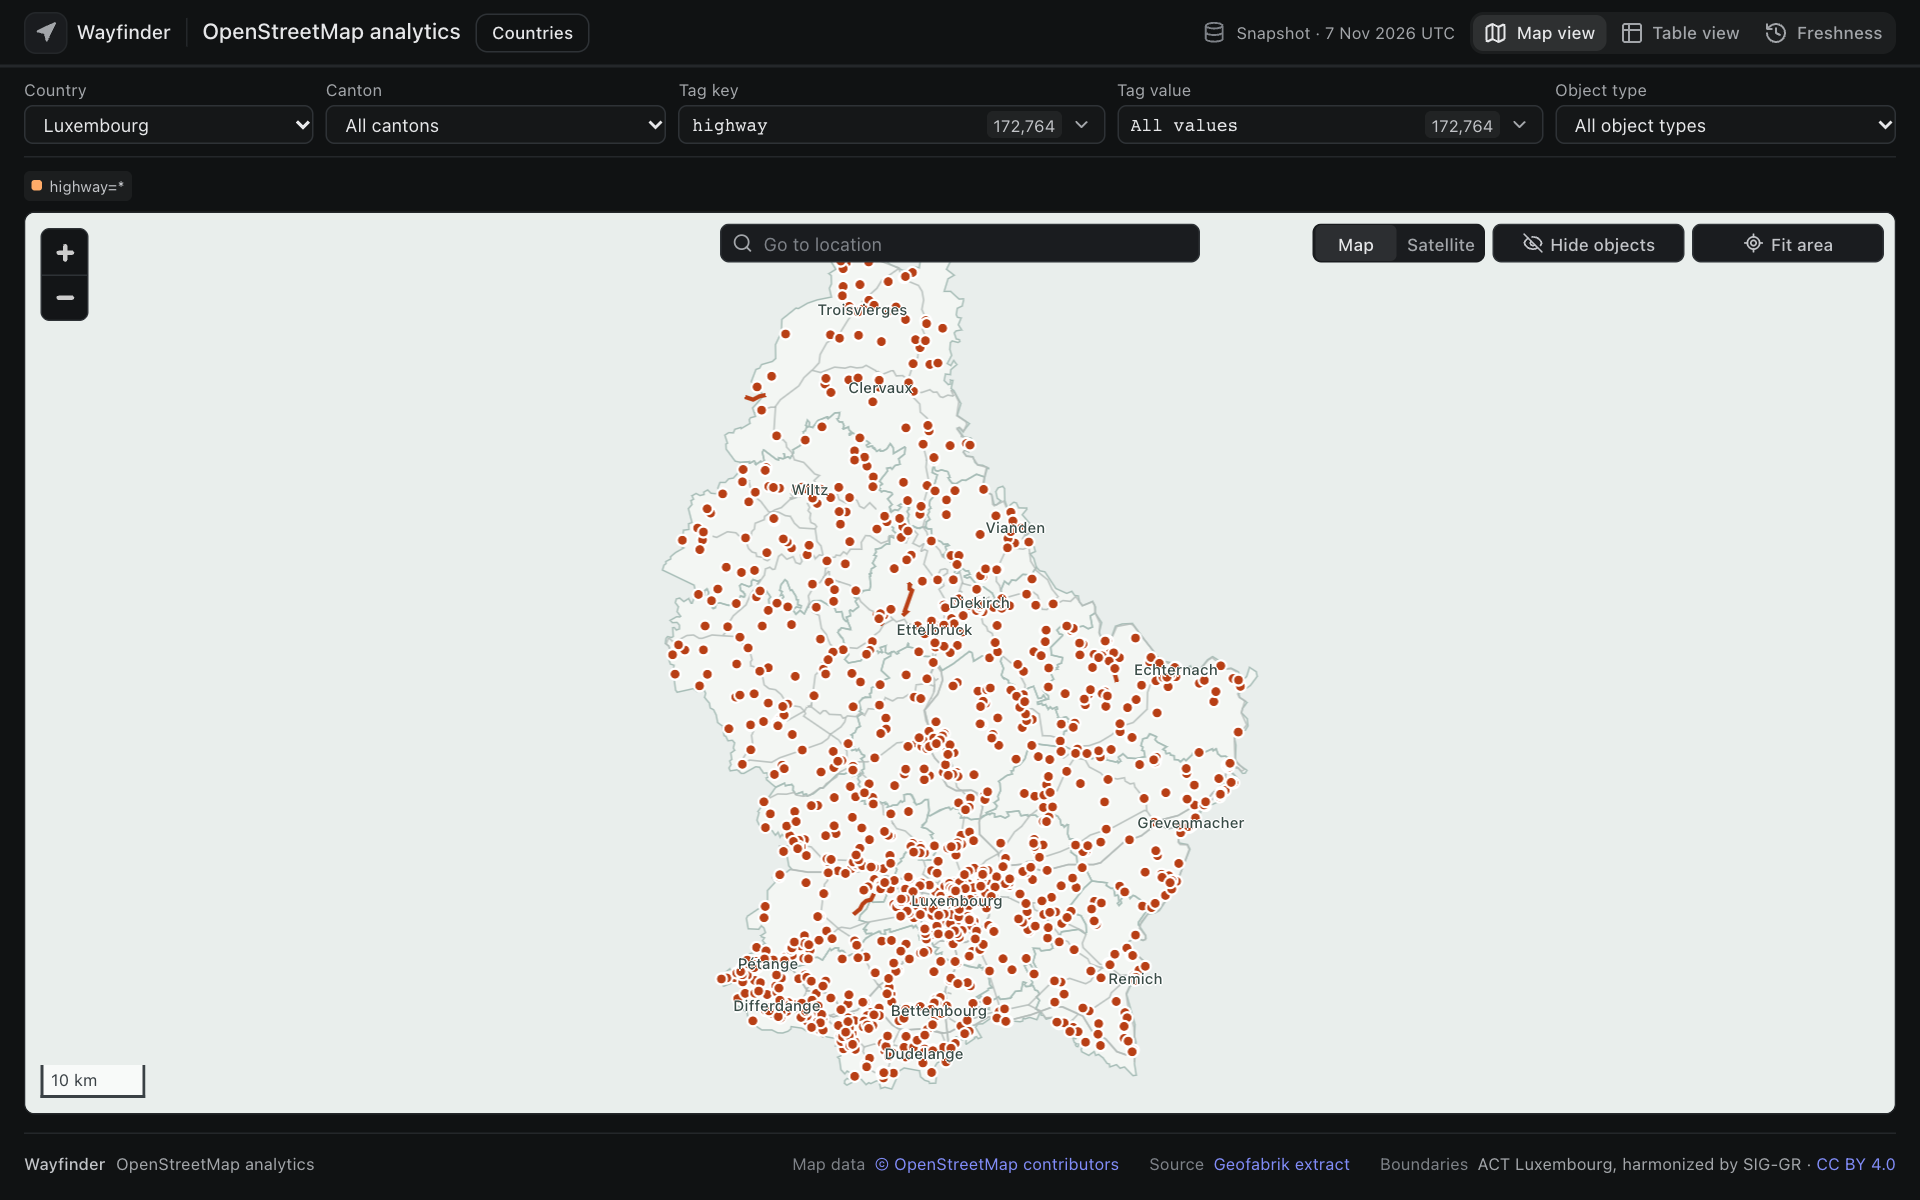
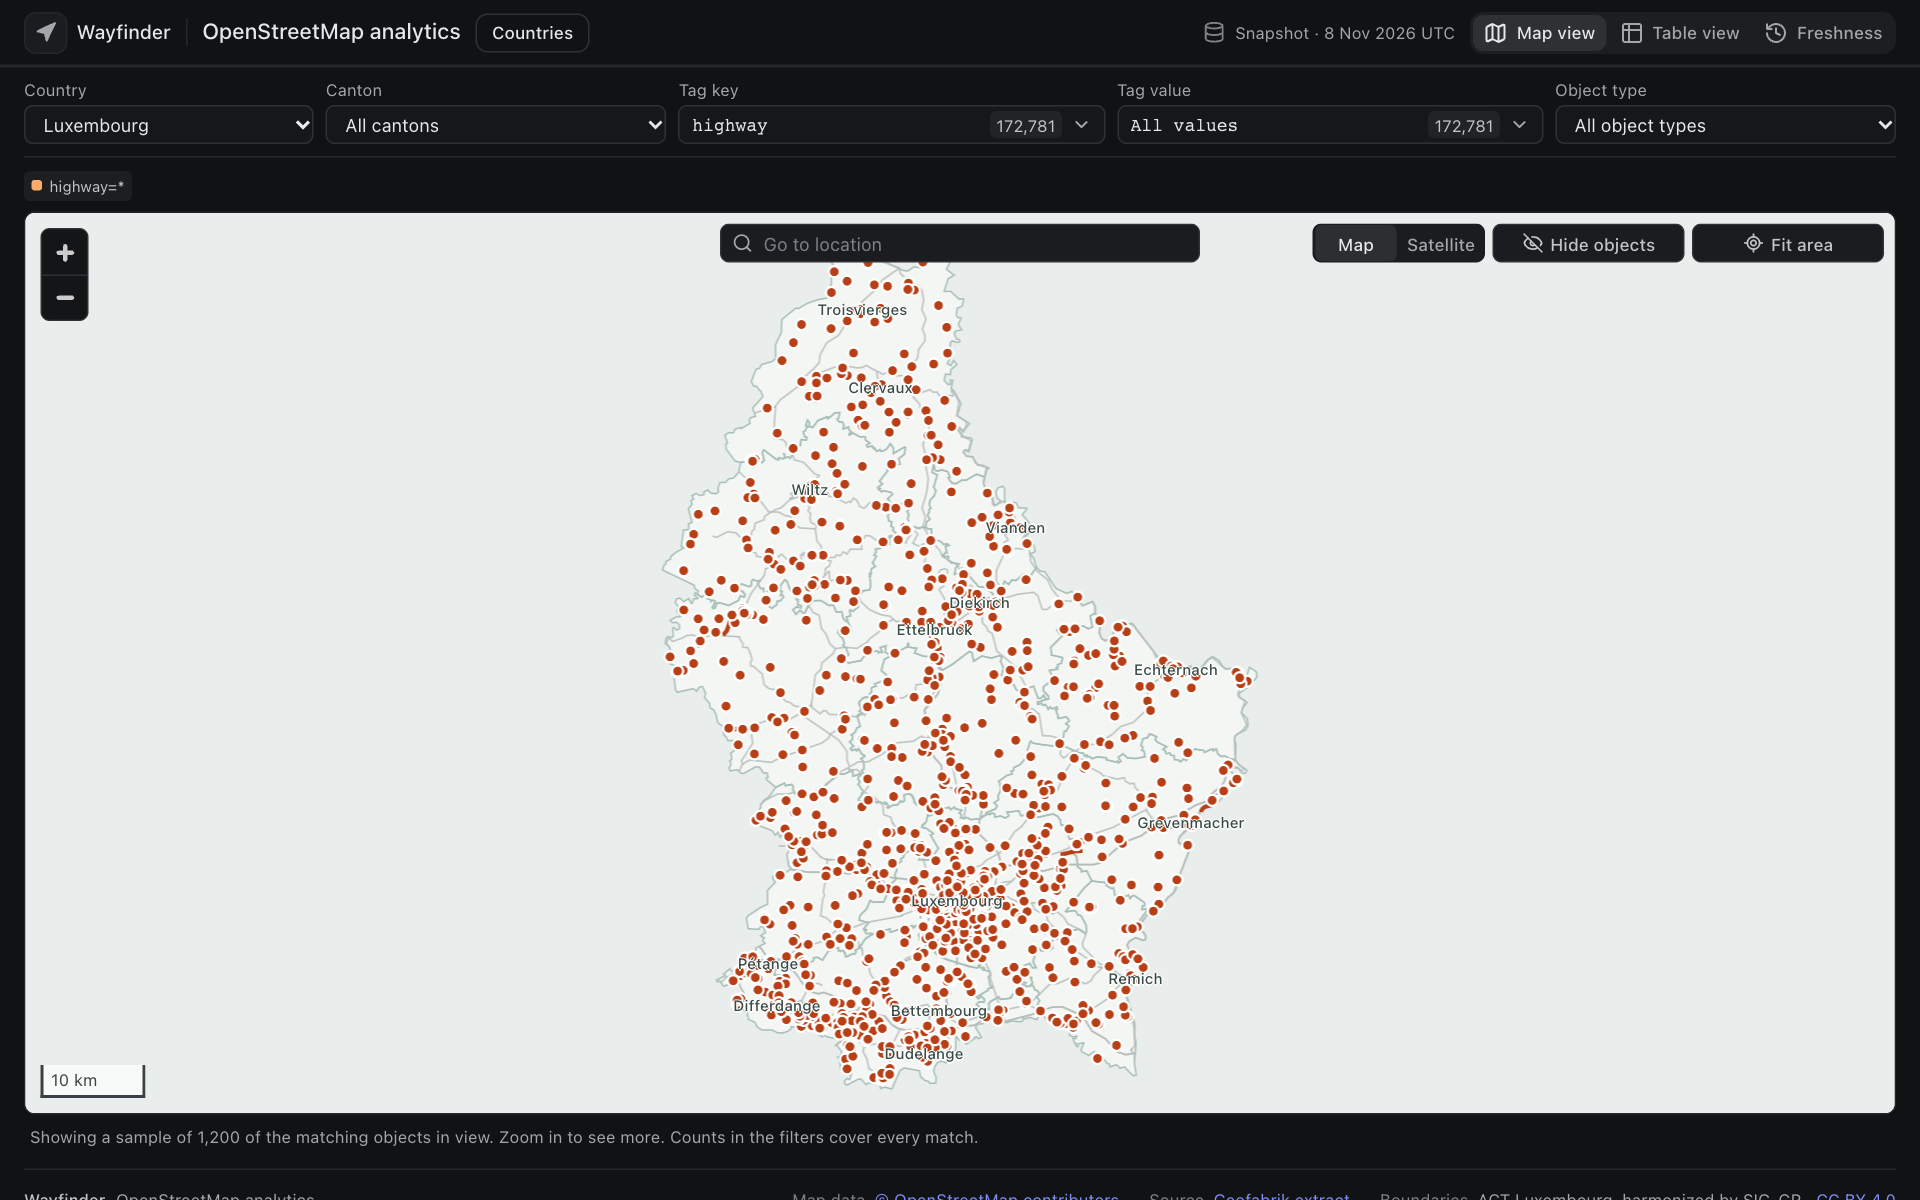
Help new users through setup and the first build
- A build names a missing Python environment or tippecanoe, and how to
  fix it, instead of "The build tools couldn't start".
- Countries with hand-checked regions, like Luxembourg, download and
  verify their boundary file during the build, and fall back to
  automatic regions if they can't. Before, Luxembourg failed to build
  from the Countries page on a fresh clone.
- With no countries built, the map page links to the Countries page.
- The README gains a troubleshooting table for every problem met while
  setting up from a clean clone, and the new settings.
- AUDIT.md records the second review.
- Screenshots retaken; the map now notes when it shows a sample.

diff --git a/code/web/src/Analytics.tsx b/code/web/src/Analytics.tsx
@@ -1126,6 +1126,7 @@ export default function Analytics() {
     );
   };
   const [error, setError] = useState("");
+  const [noCountries, setNoCountries] = useState(false);
   useEffect(() => {
     const abort = new AbortController();
     document.title = "Wayfinder — OpenStreetMap Analytics";
@@ -1136,8 +1137,7 @@ export default function Analytics() {
       .then((items) => {
         setCountries(items);
         setCountry(items[0]?.id || "");
-        if (!items.length)
-          setError("No country data yet. Open Countries to download and build one.");
+        setNoCountries(!items.length);
       })
       .catch((error) => {
         if (!abort.signal.aborted) setError(error.message);
@@ -1234,7 +1234,20 @@ export default function Analytics() {
             {error}
           </div>
         )}
-        {!error && !dataset && (
+        {noCountries && (
+          <div className="gs-panel ax-panel ax-empty" role="status">
+            {publicSite ? (
+              "No countries are available yet."
+            ) : (
+              <>
+                No countries yet. Open <a href="/countries">Countries</a> to
+                download and build one. A small country such as Luxembourg
+                takes a few minutes.
+              </>
+            )}
+          </div>
+        )}
+        {!error && !noCountries && !dataset && (
           <div className="gs-panel ax-panel ax-empty" role="status">
             Loading analytics dataset…
           </div>

diff --git a/README.md b/README.md
@@ -8,7 +8,7 @@ How many roads does a country have? How many lakes, schools or bus stops, and wh
 - **Check how current the data is.** See when objects were last edited, and which areas have gone stale.
 - **See where the numbers come from.** Plot matches on the map, inspect every tag on an object, search near any point, and export tables as CSV.
 
-![The map showing every road in Luxembourg](docs/screenshots/map.png)
+![The map showing a sample of the roads in Luxembourg](docs/screenshots/map.png)
 
 ## Install
 
@@ -22,7 +22,7 @@ npm run setup
 npm run dev
 ```
 
-Open **http://localhost:5173**, select **Countries**, and download and build a country. Geofabrik's country and region extracts are all available. Regions are found automatically from the OSM admin boundaries.
+Open **http://localhost:5173**, select **Countries**, and download and build a country. Geofabrik's country and region extracts are all available. Regions are found automatically from the OSM admin boundaries. Luxembourg is a good first country. If anything goes wrong, see [Troubleshooting](#troubleshooting).
 
 ![The Countries page, listing European countries with their download sizes and the memory, disk and time needed to build Austria](docs/screenshots/countries.png)
 
@@ -43,7 +43,7 @@ The screenshots below use Luxembourg.
 
 ### Filter by tag
 
-Choose any tag key and value from the filters above the map. Each one shows how many objects it matches. Dense views show up to 1,200 matches, and zooming in loads the matches in the new view.
+Choose any tag key and value from the filters above the map. Each one shows how many objects it matches. Dense views show a sample of up to 1,200 matches, with a note saying so, and zooming in loads the matches in the new view.
 
 ![The tag key filter open, listing keys with their object counts](docs/screenshots/filters.png)
 
@@ -91,7 +91,7 @@ Further down **Table view**, every region is compared for the selected key. Sele
 
 ### Check how fresh the data is
 
-**Freshness** shows how recently the objects in the current filters were edited, using each object's version and last-edit time from the extract. It maps stale areas and lists the most edited and longest untouched objects. The date is measured from the snapshot. A way's date changes when its tags or node list change, not when its nodes move.
+**Freshness** shows how recently the objects in the current filters were edited, using each object's version and last-edit time from the extract. It maps stale areas and lists the most edited and longest untouched objects. The date is measured from the snapshot. A way's date changes when its tags or node list change, not when its nodes move. Combinations of several keys on a large country are estimated from a sample of 250,000 objects, and the page says so.
 
 ![The Freshness view with summary figures, a map of stale areas, edits by year and lists of objects](docs/screenshots/freshness.png)
 
@@ -101,9 +101,38 @@ Further down **Table view**, every region is compared for the selected key. Sele
 
 ![Roads drawn in bright blue over aerial imagery of Luxembourg City](docs/screenshots/satellite.jpg)
 
+## Troubleshooting
+
+`npm run setup` checks your tools and says what is missing. Build progress and errors appear in the **Activity** panel at the bottom of the Countries page, and the server's terminal shows the rest.
+
+| What you see | Cause | What to do |
+|---|---|---|
+| `Node.js 22.13 or newer is required` | Node.js is too old | Install Node.js 22.13 or newer, then run `npm install` and `npm run setup` again |
+| `Python 3.10 or newer is required` | Python is missing, too old, or not on your `PATH` | Install Python 3.10 or newer. If it has another name, run `PYTHON=/path/to/python3 npm run setup` |
+| `Could not install the packages in requirements.txt` | No prebuilt `osmium`, `pyproj` or `shapely` for your Python, or no network | Use Python 3.10 to 3.13, delete `.venv`, and run `npm run setup` again |
+| `tippecanoe is required to build a country's map` | tippecanoe isn't on your `PATH` | `brew install tippecanoe` on macOS. On Linux, build it from [source](https://github.com/felt/tippecanoe#installation). If it lives elsewhere, set `WAYFINDER_TIPPECANOE=/path/to/tippecanoe` |
+| `Build failed: The Python tools aren't set up` | `npm run setup` hasn't been run, or didn't finish | Run `npm run setup`, then select **Build** again. You don't need to download the country again |
+| `Build failed: tippecanoe isn't installed` | As above, but found when the build started | Install tippecanoe, then select **Build** again |
+| `No such built-in module: node:sqlite` | Node.js is older than 22.13 | Install Node.js 22.13 or newer |
+| `EADDRINUSE` when starting | Another program, often another copy of Wayfinder, uses port 5173 | Stop the other program, or start on another port with `PORT=5180 npm run dev` |
+| The map page says **No countries yet** | Nothing is built yet | Open **Countries**, then download and build a country |
+| A country shows **Not available** | Geofabrik has no extract for it | Choose a neighbouring or parent region instead |
+| `No complete set of regions found, using the whole country as one region` | The extract has no complete set of regions inside the country | Not an error. The country works, with one region. To use your own regions, see [Building from the command line](#building-from-the-command-line) |
+| `Couldn't download the region boundaries (...), so regions are found automatically` | A country with hand-checked regions, such as Luxembourg, couldn't fetch its boundary file | The build still works, with regions from the extract. For the official regions, check your connection and build again |
+| A small coastal country, such as Monaco, opens zoomed out over the sea | Its boundary includes territorial waters, and **Fit area** fits the boundary | Zoom in, or use **Go to location** |
+| The first query after starting the server takes a second or two | The database is being read from disk | Later queries are fast |
+| A note says the map shows a sample, or that Freshness figures are estimated | Large results are sampled to stay fast | Expected. Zoom in or narrow the filters for exact results |
+| Disk fills up after rebuilding | Each rebuild keeps the old database as `XX.previous.sqlite` | Delete `output/analytics/*.previous.sqlite` once the new build looks right |
+| A build stops with any other error | Often a download cut short, a full disk, or not enough memory | Check free disk and memory against the estimate on the Countries page. Download the country again to re-verify the file, then build |
+| The page looks broken after you update the code | The browser kept old files | Reload the page. If that doesn't help, clear the site data for `localhost:5173` |
+
+Windows isn't supported directly, because the scripts expect `.venv/bin/python`. Use [WSL](https://learn.microsoft.com/windows/wsl/) and follow the Linux steps inside it.
+
+If your problem isn't listed, please [open an issue](https://github.com/raajahuja/OSMAnalytics/issues) with the Activity panel text and the server's terminal output.
+
 ## Building from the command line
 
-Luxembourg has hand-checked settings and its official canton boundaries. To download and build it:
+Luxembourg has hand-checked settings and its official canton boundaries. Building it from the Countries page downloads the boundaries too. To download and build it from the command line instead:
 
 ```sh
 npm run analytics:setup
@@ -127,7 +156,7 @@ To give another country hand-checked settings, copy `code/pipeline/countries/LU.
 | `code/` | `server/`, `pipeline/`, `web/` and `tests/` | No |
 | `output/` | Generated databases, map tiles, image cache, web build, reports | Yes, it can be rebuilt |
 
-Each country is two files in `output/analytics`: `XX.sqlite` for queries and `XX.pmtiles` for the base map. Set `WAYFINDER_INPUT` or `WAYFINDER_OUTPUT` to use other folders.
+Each country is two files in `output/analytics`: `XX.sqlite` for queries and `XX.pmtiles` for the base map. A rebuild keeps the previous database as `XX.previous.sqlite` in case the new one is wrong. Delete it once you're happy with the new build. Set `WAYFINDER_INPUT` or `WAYFINDER_OUTPUT` to use other folders.
 
 ## Serving it to others
 
@@ -143,10 +172,13 @@ For a production build, run `npm run build` and `npm start`. The app binds to `1
 | `WAYFINDER_QUERY_TIMEOUT_MS` | `15000` | Longest a query can run before it returns 504 |
 | `WAYFINDER_QUEUE_LIMIT` | `100` | Waiting queries before new ones get 503 |
 | `WAYFINDER_RATE_PER_SECOND`, `WAYFINDER_RATE_BURST` | `5`, `60` | Allowance for each client address |
+| `WAYFINDER_OPEN_COUNTRIES` | `3` | Countries each query worker keeps open |
+| `WAYFINDER_FRESHNESS_SAMPLE` | `250000` | Objects sampled for a combined Freshness filter |
+| `WAYFINDER_TIPPECANOE` | `tippecanoe` | Path to tippecanoe, if it isn't on `PATH` |
 
 `/api/health` returns 200 while databases are present and workers are running. Serve `/tiles/` from a store that supports byte ranges if you put it behind a CDN. API URLs carry the dataset version, so a new build replaces cached responses without any purge.
 
-A multi-key filter in Freshness is computed live and can reach the query limit on large countries. Freshness for one key, one key and value, or all objects is stored at build time when it covers at least 50,000 objects.
+Freshness for one key, one key and value, or all objects is stored at build time when it covers at least 50,000 objects. Other filters are computed live, and combinations of keys on large countries are sampled.
 
 ## Tests
 

diff --git a/AUDIT.md b/AUDIT.md
@@ -6,7 +6,7 @@ Findings marked **Fixed** were reproduced on the running code, fixed, and now ha
 
 ## Status, later on 9 Nov 2026
 
-The server, caching, query and storage work below has since been done, and the figures in this file describe the code before it. Still open from this audit: replacing the in-memory Python pipeline for planet-scale builds (item 2), country-specific imagery beyond Luxembourg, code findings C4 and C6, and splitting up the large server and map files. See the git history for what changed.
+The server, caching, query and storage work below has since been done, and the figures in this file describe the code before it. Still open from this audit: replacing the in-memory Python pipeline for planet-scale builds (item 2), country-specific imagery beyond Luxembourg, code finding C6, the imagery cache size limit, and splitting up the large server and map files. See the git history for what changed.
 
 | Measure (Austria, warm cache, one request at a time) | Before | After |
 |---|---|---|
@@ -19,6 +19,37 @@ The server, caching, query and storage work below has since been done, and the f
 | Nearby, 2 km | 1,490 ms | 449 ms |
 | Value search | 305 ms | 123 ms |
 | Map context | 3.9 MB | 943 KB, 111 KB compressed |
+
+## Second review, 9–10 Nov 2026
+
+A read-only review of the MapLibre version, with India (27.8M objects) as the large test country. Every finding below is fixed and tested unless marked open.
+
+| Finding | Status | Resolution |
+|---|---|---|
+| The map drew 1,200 of N objects without saying so | Fixed | A note says when the view is a sample |
+| Freshness with several keys timed out at 15 s on India | Fixed | Estimated from a 250,000-object sample (2.0 s), labelled as an estimate. **Match all** stays exact |
+| **Every object** took 12.6 s on India | Fixed | IDs are generated in sample order, so nothing is sorted (16 ms) |
+| **Match all** showed nothing, because each new key started on its most common value | Fixed | Only the first key starts on a value. Later keys start on all values |
+| Freshness showed every object when no key was chosen | Fixed | It asks for a key, or **All keys** |
+| The value picker label showed another key's value | Fixed | It describes the key it lists |
+| Quick clicks could pass the 12-key limit, or add a key to a newly chosen country | Fixed | Pending keys count toward the limit and are dropped on a country change |
+| `Range: bytes=-100` returned the whole tile file | Fixed | Suffix ranges return the last n bytes |
+| A crash while saving a satellite tile could cache a broken tile (C4) | Fixed | Tiles are written to a temporary file and renamed |
+| India's place list was 27.8 MB and re-parsed on every request | Fixed | Compact rows, parsed once: 6.3 MB, 13 ms when cached |
+| Every country stayed open in every query worker | Fixed | Each worker keeps 3 open (`WAYFINDER_OPEN_COUNTRIES`) |
+| Rebuilds silently keep a full copy of the old database (`*.previous.sqlite`, 12 GB here) | Documented | The README explains these files and when to delete them |
+| A build without the Python environment or tippecanoe failed with "The build tools couldn't start" | Fixed | The build names what is missing and how to fix it. The README has a troubleshooting table |
+| Luxembourg failed to build from a fresh clone, because only `npm run analytics:download` fetched its cantons | Fixed | The build downloads and checks hand-checked boundaries, and falls back to automatic regions |
+| The first heavy query after a restart takes 1.2–1.8 s while the database is read from disk | Open, accepted | Warming several GB at every start would cost local users more than it saves |
+| A small coastal country, such as Monaco, opens zoomed out over its territorial waters | Open | Fit to the data's extent rather than the boundary |
+
+| Measure (India, warm cache) | Before | After |
+|---|---|---|
+| Every object, whole country | 2.9 s | 16 ms |
+| Every object, ways only | 11 s | 127 ms |
+| Every object, relations only | 10.5 s | 10 ms |
+| Freshness, `highway` + `building` | over 15 s (timeout) | 2.0 s, estimated |
+| Map places | 27.8 MB | 6.3 MB, 2.35 MB compressed |
 
 ## Summary
 
@@ -94,7 +125,7 @@ Single-key counts are precomputed and stay fast.
 | A2 | Blocker for world | Regions were bits in an integer, and JavaScript `<<` wraps at 32 bits. | Fixed | New `feature_regions` table with no limit. Needed a database rebuild |
 | A3 | High for world | A viewport past 180 degrees returned 400, and nearby did not wrap. | Fixed | Viewports and nearby split at the line, and results return in the map's frame. Straddling countries store continuous longitudes. One gap remains, below |
 | C3 | Medium | Static file stream has no error handler, so a file removed during a deploy can crash the process. | By reading | `index.mjs:80` |
-| C4 | Medium | Imagery tiles are written non-atomically, so a crash can cache a truncated tile. The cache also has no size limit. | By reading | `imagery.mjs:43` |
+| C4 | Medium | Imagery tiles are written non-atomically, so a crash can cache a truncated tile. The cache also has no size limit. | Partly fixed | Writes are atomic. The cache still has no size limit |
 | C5 | Low | `vite`, a dev dependency, is imported at the top even in production, so `npm ci --omit=dev` would break startup. | By reading | `index.mjs:4` |
 | C6 | Low | An oversized POST body is still read to the end before it is refused. | By reading | `analytics.mjs:formParameters` |
 | C7 | Low | `npm test` silently excluded the 6 routing tests before this audit. They are now included. | Fixed | `package.json` |
@@ -134,9 +165,9 @@ Remaining gap in A3, by reading: the nearby tool wraps its centre to the -180 to
 
 ### Project
 
-- **This folder is not a git repository.** It is the highest-value cheap fix, since there is no history or rollback.
-- About 5,700 lines serve the routing app that the README says is inactive. Decide whether to delete or revive it.
-- There is no CI, linter or Python dependency lock.
+- Done: the project is a git repository.
+- Done: the inactive routing app is removed.
+- Done: CI runs the tests on every push. There is still no linter or Python dependency lock.
 
 ## Tests
 
@@ -144,7 +175,7 @@ Remaining gap in A3, by reading: the nearby tool wraps its centre to the -180 to
 |---|---|---|
 | Unit | `npm run test:unit`, `npm run test:py` | Validation, CSV, imagery cache, paths, geometry rules, themes, region clipping, relation cycles |
 | Smoke | `npm run test:smoke` | Production and dev servers boot, assets load, every endpoint answers, pipeline scripts parse |
-| Integration | `npm run test:integration` | Fixture through the real pipeline and HTTP API with exact results, plus real Luxembourg and Monaco routing |
+| Integration | `npm run test:integration` | Fixture through the real pipeline and HTTP API with exact results, plus the real Luxembourg database |
 | Regression | `npm run test:regression` | 11 golden API responses and every fixed bug |
 | Visual | `npm run test:visual` | Screenshots on desktop and mobile, right-click menu, inspector, filters, nearby |
 | Performance | `npm run test:perf` | Latency budgets on real data |
